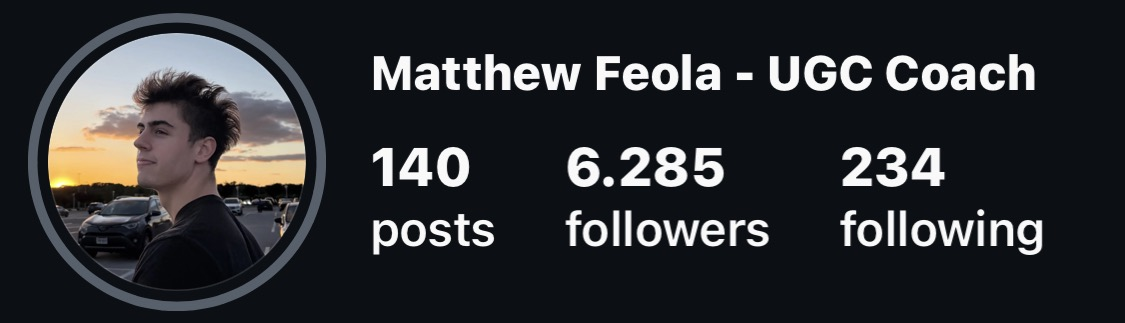
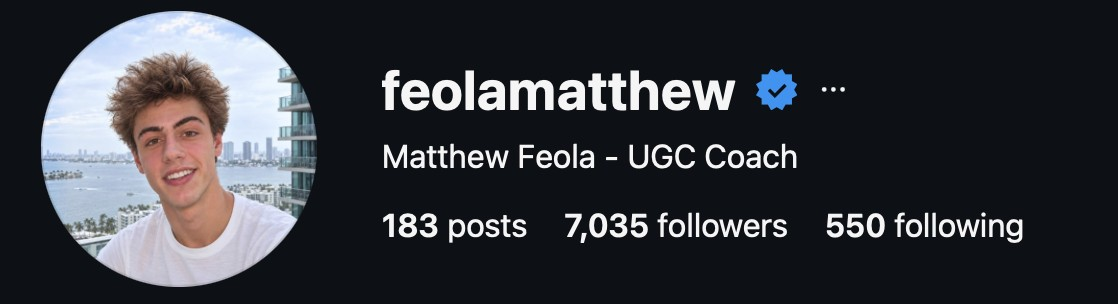
Proof: Matthew's follower count to 7,035 with new after screenshot (#21)

diff --git a/index.html b/index.html
@@ -1236,7 +1236,7 @@
       <li class="client-card">
         <div class="client-card-top">
           <img class="client-avatar" width="56" height="56" decoding="async" src="assets/client-matthew.jpg" alt="">
-          <span class="client-followers">7,034 <span>followers</span></span>
+          <span class="client-followers">7,035 <span>followers</span></span>
           <span class="client-bubble">$30k/mo+</span>
         </div>
         <div class="client-name">Matthew Feola</div>
@@ -1432,8 +1432,8 @@
   <section id="results">
     <div class="section-head reveal">
       <span class="section-eyebrow">PROOF</span>
-      <h2>From 2,183 to 6,285 followers — and <span class="accent-italic">100+ leads</span>.</h2>
-      <p class="section-sub">Matthew Feola came to me at 2,183 followers. The content we made together pulled in over 100 leads and helped grow him to 6,285 — here's him telling it.</p>
+      <h2>From 2,183 to 7,035 followers — and <span class="accent-italic">100+ leads</span>.</h2>
+      <p class="section-sub">Matthew Feola came to me at 2,183 followers. The content we made together pulled in over 100 leads and helped grow him to 7,035 — here's him telling it.</p>
     </div>
 
     <div class="tm-grid reveal">
@@ -1457,8 +1457,8 @@
 
         <div class="tm-stat-row">
           <div class="tm-stat">
-            <div class="tm-stat-value" id="tm-followers" data-from="2183" data-to="6285">2,183</div>
-            <div class="tm-stat-label">followers &nbsp;•&nbsp; +188%</div>
+            <div class="tm-stat-value" id="tm-followers" data-from="2183" data-to="7035">2,183</div>
+            <div class="tm-stat-label">followers &nbsp;•&nbsp; +222%</div>
           </div>
           <div class="tm-stat">
             <div class="tm-stat-value" id="tm-leads" data-to="100" data-suffix="+">0+</div>
@@ -1481,11 +1481,11 @@
       <div class="tm-shot-arrow">↓</div>
       <figure class="tm-shot">
         <div class="tm-shot-img tm-shot-missing">
-          <img src="assets/matthew-after.jpg" width="1125" height="323" alt="Matthew's Instagram at 6,285 followers" loading="lazy"
+          <img src="assets/matthew-after.jpg" width="1118" height="304" alt="Matthew's Instagram at 7,035 followers" loading="lazy"
                onload="this.parentElement.classList.remove('tm-shot-missing')"
                onerror="this.remove()">
         </div>
-        <figcaption><span class="tm-shot-tag">After</span> 6,285 followers</figcaption>
+        <figcaption><span class="tm-shot-tag">After</span> 7,035 followers</figcaption>
       </figure>
     </div>
   </section>
